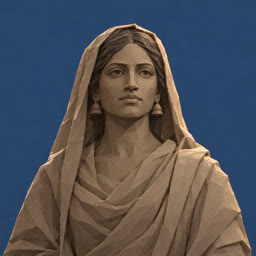
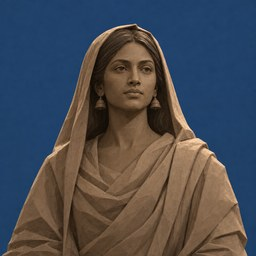
New clay figures: Egypt as Sudanese Africans, Elam as East Indians, Israel man 3 as Gad
Claude-Session: https://claude.ai/code/session_015DV9ZyVxHwYppB7BbJ58Td

Changed region(s): [[0.0, 0.0938, 1.0, 1.0], [0.5, 0.5312, 0.5312, 0.5625]]

diff --git a/changes/claude-project-thread-17zmbu.md b/changes/claude-project-thread-17zmbu.md
@@ -29,3 +29,12 @@ Obie flagged Edomites wearing Judah figures (2026-11-03) and approved these on t
   Strong's grey group.
 
 Only `peopleNations.ts` and `israeliteGroups.ts` change; how figures are chosen does not.
+
+## New clay figures (Obie OK'd 2026-11-03)
+
+- Egypt (Mizraim): man, woman and group redrawn as dark Sudanese Africans ("the Egyptians were the
+  Africans today, the ones in Sudan").
+- Elam: man, woman and group redrawn as East Indians ("Elam is who the East Indians are today").
+- Israel man #3 redrawn darker, as Gad (Native American) on the 12 tribes chart.
+
+Same clay style and blue ground, 256 px, drawn in Higgsfield ("CyberJudah People Avatars").
